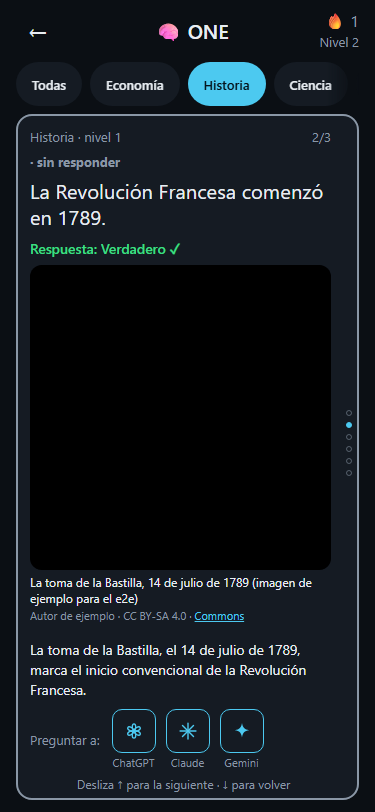
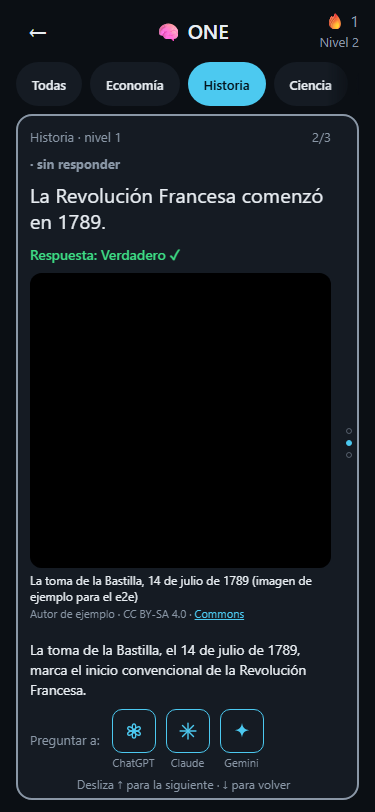
Repaso: huecos perezosos (I1), sin dataset.respondida en sin-responder (Minor 1), feed único (Minor 5) y texto (Minor 4)
Ronda final de revisión (Opus, banco real a 393×852):

- I1 (Important, rendimiento): abrir el repaso con el banco real
  construía las ~295 tarjetas de golpe (2,5 s con CPU x4, 27.000
  nodos). Mismo mecanismo que la partida: `repasoHuecos` guarda ya
  todos los items conocidos de las vueltas cargadas (barato, sin DOM),
  pero cada `nodo` se queda `null` hasta la PRIMERA VEZ que se llega a
  él (`mantenerVueltasRepaso`, en cada `alCambiar`, construye como
  mucho el actual + un colchón de uno). `asegurarRepasoConstruidoHasta`
  cubre el salto de test directo (`window.__one.irA`), que a diferencia
  del gesto real puede pedir un índice lejano de golpe. Medido con el
  banco real: 2 tarjetas construidas al abrir, 12 tras 10
  deslizamientos (topes pedidos: ≤3 y ≤13).
- Minor 1: las tarjetas "sin responder" ya no llevan
  `dataset.respondida = 'true'` (nunca se han respondido de verdad).
- Minor 4: "Sin banco" -> "Sin preguntas".
- Minor 5: `renderRepaso` calculaba el feed completo dos veces (una sin
  filtro para los chips, otra con filtro para el mazo); ahora se
  calcula una sola vez y se filtra el resultado ya obtenido.
- Nuevos hooks de test (`?test=1`): `repasoNodosConstruidos()` (nodos
  DOM realmente construidos) y `repasoNodosLength()` ajustado a
  `repasoHuecos.length` (items conocidos, sin DOM).
- e2e: nuevo test I1 (mide construidas al abrir/tras 10 deslizamientos);
  test principal adaptado a la construcción perezosa y a la vuelta
[…]

diff --git a/app.js b/app.js
@@ -102,13 +102,17 @@ let repasoPartida = [];
 // ver con mazoResumenControlador (el repaso de UNA partida ya jugada): este
 // es el feed de TODO el banco (lo respondido + lo que falta por responder).
 let mazoRepasoControlador = null;
-// Nodos del mazo de repaso ahora mismo cargados (espejo de lo que tiene
-// `mazoRepasoControlador`, para poder concatenar/recortar sin tener que
-// leerlo de vuelta del controlador) y el tamaño de cada VUELTA que compone
-// `repasoNodos`, en el mismo orden (spec v0.2a.1 §7, "sin fin": se van
-// añadiendo vueltas completas y se retiran las más antiguas ya recorridas,
-// máximo ~2 vueltas en el DOM). Ver mantenerVueltasRepaso.
-let repasoNodos = [];
+// Huecos del repaso (I1, ronda final de revisión de rendimiento: abrir el
+// repaso con el banco real construía las ~295 tarjetas de golpe, 2,5 s con
+// CPU x4). Mismo mecanismo que el mazo de la partida (`mazo`/`rellenarHueco`
+// en app.js): cada hueco conoce ya su item, su posición y el total de SU
+// vuelta (baratos, sin DOM), pero `nodo` se queda `null` hasta la PRIMERA VEZ
+// que se llega a él (`mantenerVueltasRepaso`/`asegurarRepasoConstruidoHasta`
+// construyen como mucho uno por deslizamiento). `repasoVueltaTamanos` es el
+// tamaño de cada VUELTA dentro de `repasoHuecos`, en el mismo orden (spec
+// v0.2a.1 §7, "sin fin": se van conociendo vueltas completas — barato — y se
+// retiran las más antiguas ya recorridas del todo, máximo ~2 vueltas).
+let repasoHuecos = [];
 let repasoVueltaTamanos = [];
 // Filtro de área activo del repaso del HUB: 'todas' o una de AREAS. Se
 // recuerda en sessionStorage (spec v0.2 §2: "se recuerda en sessionStorage",
@@ -338,7 +342,7 @@ function limpiarRepasoMazo() {
     mazoRepasoControlador.destruir();
     mazoRepasoControlador = null;
   }
-  repasoNodos = [];
+  repasoHuecos = [];
   repasoVueltaTamanos = [];
 }
 
@@ -441,7 +445,20 @@ if (new URLSearchParams(location.search).get('test') === '1') {
   window.__one = {
     irA(indice) {
       const activo = mazosActivos.find((m) => m.estaVisible());
-      if (activo) activo.irA(indice);
+      if (!activo) return;
+      // El repaso construye sus tarjetas de forma perezosa (I1, ronda final
+      // de revisión de rendimiento): el gesto/tecla real siempre navega de
+      // uno en uno, así que mantenerVueltasRepaso solo necesita construir el
+      // actual + un colchón. Un salto de TEST directo a un índice lejano
+      // (irA(150), irA(294)...) necesita los huecos intermedios ya
+      // construidos o mazo.js lo rebota (`nuevo >= lista.length`) — se
+      // construyen aquí, solo para este salto, sin tocar el mecanismo
+      // perezoso normal.
+      if (activo === mazoRepasoControlador) {
+        asegurarRepasoConstruidoHasta(indice + 1);
+        mazoRepasoControlador.actualizarTarjetas(listaMazoRepaso(), 0);
+      }
+      activo.irA(indice);
     },
     // Arranca una partida filtrada a ids concretos (mismo mecanismo que Misión
     // de hoy/Pendientes): para que el e2e pueda forzar preguntas concretas del
@@ -466,16 +483,24 @@ if (new URLSearchParams(location.search).get('test') === '1') {
       bancoPorId.set(pregunta.id, pregunta);
       banco.push(pregunta);
     },
-    // Tamaño ahora mismo del array que respalda el mazo de repaso del HUB
-    // (v0.2a.1 §7, repaso "sin fin"): mazo.js ya limita a máximo 3 los nodos
-    // REALMENTE adjuntos al DOM en cada momento (ventana anterior/actual/
-    // siguiente, ver render() en mazo.js) sea cual sea el tamaño de este
-    // array — así que contar `.tarjeta` en el DOM no distinguiría un recorte
-    // de vueltas correcto de uno roto. Lo que de verdad puede crecer sin
-    // límite (y lo que mantenerVueltasRepaso acota a ~2 vueltas) es este
-    // array; el e2e comprueba ESTE número, no el recuento del DOM.
+    // Nº de ITEMS ya conocidos (baratos, sin DOM) de las vueltas del repaso
+    // cargadas ahora mismo (v0.2a.1 §7, repaso "sin fin"): lo que
+    // `mantenerVueltasRepaso` acota a ~2 vueltas al recortar la más antigua
+    // ya recorrida. Mazo.js ya limita a máximo 3 los nodos REALMENTE
+    // adjuntos al DOM en cada momento (ventana anterior/actual/siguiente, ver
+    // render() en mazo.js) sea cual sea el tamaño de este array — así que
+    // contar `.tarjeta` en el DOM no distinguiría un recorte de vueltas
+    // correcto de uno roto. El e2e comprueba ESTE número, no el recuento del DOM.
     repasoNodosLength() {
-      return repasoNodos.length;
+      return repasoHuecos.length;
+    },
+    // Nº de tarjetas REALMENTE construidas (I1, ronda final de revisión de
+    // rendimiento): `repasoHuecos` conoce todos los items de la vuelta, pero
+    // `nodo` se queda `null` hasta la primera vez que se llega a ese hueco.
+    // Al abrir debe ser ≤ 3; tras 10 deslizamientos, ≤ 13 (como mucho una
+    // tarjeta nueva por deslizamiento).
+    repasoNodosConstruidos() {
+      return listaMazoRepaso().length;
     },
   };
 }
@@ -1639,15 +1664,22 @@ function construirTarjetaRespondida(pregunta, hueco, { soloLectura = false, cont
   const tarjeta = document.createElement('div');
   tarjeta.className = 'tarjeta';
   tarjeta.dataset.test = 'tarjeta';
-  tarjeta.dataset.respondida = 'true';
   // Sin responder (v0.2a.1 §7, tramo 2 del repaso infinito): hueco.correcta
   // es undefined a propósito (nunca se ha respondido de verdad, ni acierto
   // ni fallo que marcar) — borde NEUTRO, ni verde ni rojo, sin la animación
   // de pulso/sacudida que sí llevan correcto/incorrecto (spec: "ni verde ni
-  // rojo: clase tarjeta--neutra").
+  // rojo: clase tarjeta--neutra"), y SIN `dataset.respondida` (Minor 1, ronda
+  // final de revisión: nunca se ha respondido de verdad, así que marcarla
+  // como "respondida" sería falso). `ajustarEncaje` (mazo.js) distingue la
+  // cascada de una pregunta ACTIVA sin responder mirando
+  // `dataset.respondida === 'false'`, no `!== 'true'`, así que esta tarjeta
+  // (construida con la MISMA forma que una respondida: zona de respuesta +
+  // feedback, no la de una pregunta activa) sigue cayendo en la cascada
+  // correcta aunque no lleve el atributo.
   if (hueco.correcta === undefined) {
     tarjeta.classList.add('tarjeta--neutra');
   } else {
+    tarjeta.dataset.respondida = 'true';
     tarjeta.classList.add(hueco.correcta ? 'correcto' : 'incorrecto');
   }
 
@@ -2187,18 +2219,59 @@ function actualizarFiltroRepasoFinal() {
   contenedorFiltroRepaso.classList.toggle('repaso-filtro--final', alFinal);
 }
 
+/** El PREFIJO de `repasoHuecos` ya construido en nodos DOM, en orden (I1,
+ * ronda final de revisión de rendimiento): mazo.js nunca debe ver un hueco
+ * sin construir, así que se corta en el primer `nodo` a `null`.
+ * `mantenerVueltasRepaso`/`asegurarRepasoConstruidoHasta` garantizan que el
+ * hueco actual y su colchón siempre están construidos ANTES de llamar a
+ * esto, así que el corte nunca deja fuera al que hace falta mostrar. */
+function listaMazoRepaso() {
+  const construidos = [];
+  for (const hueco of repasoHuecos) {
+    if (!hueco.nodo) break;
+    construidos.push(hueco.nodo);
+  }
+  return construidos;
+}
+
+/** Añade vueltas (solo ITEMS: baratos, sin construir DOM) a `repasoHuecos`
+ * hasta conocer al menos `hastaIndice + 1`, y construye los nodos DOM del 0
+ * hasta `hastaIndice` que todavía no lo estén. Uso: el salto de TEST directo
+ * (`window.__one.irA`), que a diferencia del gesto real (siempre ±1) puede
+ * pedir un índice lejano de golpe — recorre `repasoHuecos` desde el principio
+ * porque no sabe qué tramo ya estaba construido, a diferencia del camino
+ * normal (`mantenerVueltasRepaso`), que sí lo sabe y por eso solo mira dos
+ * posiciones por deslizamiento. */
+function asegurarRepasoConstruidoHasta(hastaIndice) {
+  while (repasoHuecos.length <= hastaIndice) {
+    const lista = construirFeedRepaso(estado, banco, hoy(), filtroRepaso);
+    if (lista.length === 0) break; // defensivo: no debería darse con banco no vacío
+    repasoVueltaTamanos.push(lista.length);
+    lista.forEach((item, i) => repasoHuecos.push({ item, posicion: i, total: lista.length, nodo: null }));
+  }
+  for (let i = 0; i <= hastaIndice && i < repasoHuecos.length; i += 1) {
+    const hueco = repasoHuecos[i];
+    if (!hueco.nodo) hueco.nodo = construirTarjetaRepaso(hueco.item, hueco.posicion, hueco.total);
+  }
+}
+
 /**
- * Sin fin de verdad (spec v0.2a.1 §7): mientras al usuario le queden ≤ 3
- * tarjetas por delante en `repasoNodos`, añade otra vuelta completa (feed
- * recalculado con el mismo filtro — así refleja cualquier cambio de estado
- * mientras tanto, aunque hoy no haya forma de responder desde el repaso y en
- * la práctica salga siempre igual). Para que el DOM no crezca sin límite se
- * conservan como máximo ~2 vueltas: al superar esa cuenta se retira la vuelta
- * más antigua (nunca la actual ni una que el usuario no haya recorrido ya del
- * todo) y se reajusta el índice hacia abajo con el segundo argumento de
- * `actualizarTarjetas` (cambio mínimo en mazo.js, ver su comentario) para que
- * el usuario no note ningún salto: sigue viendo exactamente la misma tarjeta.
- * `indice` es la posición ACTUAL dentro de `repasoNodos` (no dentro de una
+ * Sin fin de verdad (spec v0.2a.1 §7) Y perezoso (I1, ronda final de
+ * revisión de rendimiento: abrir el repaso con el banco real construía las
+ * ~295 tarjetas de golpe, 2,5 s con CPU x4 — 27.000 nodos). Tres pasos en
+ * cada cambio de índice:
+ *  1. Conocer más ITEMS (baratos, sin DOM) mientras al usuario le queden ≤ 3
+ *     por delante en `repasoHuecos` — feed recalculado con el mismo filtro.
+ *  2. Construir como mucho UN nodo nuevo: el actual, por si aún no existe
+ *     (primer montaje o justo tras un recorte de vuelta), y uno de colchón
+ *     por delante — mismo mecanismo que `asegurarSiguienteDisponible` en la
+ *     partida ("rellena la PRIMERA VEZ que se llega a él").
+ *  3. Retirar la vuelta más antigua ya recorrida del todo (items Y nodos),
+ *     máximo ~2 vueltas cargadas: al superarlas se recorta por delante y se
+ *     reajusta el índice hacia abajo con el segundo argumento de
+ *     `actualizarTarjetas` (cambio mínimo en mazo.js, ver su comentario) para
+ *     que el usuario no note ningún salto: sigue viendo la misma tarjeta.
+ * `indice` es la posición ACTUAL dentro de `repasoHuecos` (no dentro de una
  * vuelta). Se llama una vez a mano justo tras montar el mazo (mismo patrón
  * que `manejarCambioIndiceMazo(0)` en `empezarPartida`) y luego en cada
  * `alCambiar`.
@@ -2207,37 +2280,41 @@ function mantenerVueltasRepaso(indice) {
   let indiceRelativo = indice;
   let huboCambio = false;
 
-  // 1) Añadir vueltas mientras el colchón por delante sea de 3 tarjetas o menos.
-  while (repasoNodos.length - 1 - indiceRelativo <= 3) {
+  while (repasoHuecos.length - 1 - indiceRelativo <= 3) {
     const lista = construirFeedRepaso(estado, banco, hoy(), filtroRepaso);
     if (lista.length === 0) break; // defensivo: no debería darse con banco no vacío
-    const nodos = lista.map((item, i) => construirTarjetaRepaso(item, i, lista.length));
-    repasoVueltaTamanos.push(nodos.length);
-    repasoNodos = repasoNodos.concat(nodos);
-    huboCambio = true;
+    repasoVueltaTamanos.push(lista.length);
+    lista.forEach((item, i) => repasoHuecos.push({ item, posicion: i, total: lista.length, nodo: null }));
   }
 
-  // 2) Retirar la vuelta más antigua ya recorrida del todo, máximo ~2 vueltas
-  // en el DOM. Solo si el usuario ya la ha pasado entera (indiceRelativo, ya
-  // descontado lo retirado en esta misma pasada, cae en o después de ella) —
-  // nunca se recorta por delante de la tarjeta actual.
+  for (const i of [indiceRelativo, indiceRelativo + 1]) {
+    const hueco = repasoHuecos[i];
+    if (hueco && !hueco.nodo) {
+      hueco.nodo = construirTarjetaRepaso(hueco.item, hueco.posicion, hueco.total);
+      huboCambio = true;
+    }
+  }
+
   let ajuste = 0;
   while (repasoVueltaTamanos.length > 2 && repasoVueltaTamanos[0] <= indiceRelativo - ajuste) {
     ajuste += repasoVueltaTamanos.shift();
   }
   if (ajuste > 0) {
-    repasoNodos = repasoNodos.slice(ajuste);
+    repasoHuecos = repasoHuecos.slice(ajuste);
     huboCambio = true;
   }
 
-  if (huboCambio) mazoRepasoControlador.actualizarTarjetas(repasoNodos, ajuste);
+  if (huboCambio) mazoRepasoControlador.actualizarTarjetas(listaMazoRepaso(), ajuste);
 }
 
 /** Recalcula el feed completo, pinta los chips y (re)monta el mazo filtrado
  * (spec v0.2a.1 §7): se usa tanto para abrir la vista por primera vez como
  * para remontar tras cambiar de chip — nunca cambia de vista por sí misma
  * (ver abrirRepaso), así que un cambio de filtro no retriggerea la animación
- * de entrada de la vista. */
+ * de entrada de la vista. Construye el feed UNA sola vez (Minor 5, ronda
+ * final de revisión) y filtra el resultado ya calculado en vez de volver a
+ * recorrer `ordenarRepaso`/`listarNoRespondidas` una segunda vez solo para
+ * aplicar el filtro. */
 function renderRepaso() {
   limpiarRepasoMazo();
   const listaCompleta = construirFeedRepaso(estado, banco, hoy(), null);
@@ -2250,16 +2327,17 @@ function renderRepaso() {
     guardarFiltroRepaso(filtroRepaso);
   }
   renderFiltroRepaso(listaCompleta);
-  const primeraLista = construirFeedRepaso(estado, banco, hoy(), filtroRepaso);
+  const primeraLista =
+    filtroRepaso === 'todas' ? listaCompleta : listaCompleta.filter((item) => item.pregunta.area === filtroRepaso);
   repasoVueltaTamanos = [primeraLista.length];
-  repasoNodos = primeraLista.map((item, i) => construirTarjetaRepaso(item, i, primeraLista.length));
+  repasoHuecos = primeraLista.map((item, i) => ({ item, posicion: i, total: primeraLista.length, nodo: null }));
   contenedorMazoRepaso.innerHTML = '';
-  mazoRepasoControlador = montarMazo(contenedorMazoRepaso, repasoNodos, {
+  mazoRepasoControlador = montarMazo(contenedorMazoRepaso, [], {
     contarPista: false,
     puntosNeutros: true,
     alCambiar: mantenerVueltasRepaso,
   });
-  mantenerVueltasRepaso(0); // dispara el pre-relleno inicial (mismo patrón que empezarPartida).
+  mantenerVueltasRepaso(0); // construye el hueco 0 + colchón (I1) y aplica vuelta/recorte si hiciera falta.
 }
 
 /** Abre la vista de repaso del HUB (botón `data-test="repaso-hub"`, spec
@@ -2394,7 +2472,7 @@ function actualizarDestacados(resumen) {
   // darse nunca en producción (ver también el guarda defensivo del mismo
   // caso en mantenerVueltasRepaso).
   if (banco.length === 0) {
-    nodoRepasoHub.textContent = 'Sin banco';
+    nodoRepasoHub.textContent = 'Sin preguntas';
     marcarNoTocable(nodoRepasoHub);
   } else {
     nodoRepasoHub.textContent = 'Repaso';

diff --git a/tests/e2e.spec.js b/tests/e2e.spec.js
@@ -2272,6 +2272,10 @@ test.describe('ONE · repaso v0.2a', () => {
     await expect(actual.locator('[data-test="nivel-pregunta"]')).toContainText('Ciencia');
     await expect(actual.locator('.repaso-marca')).toHaveText('✗ fallada · hoy');
 
+    // Minor 7 (ronda final de revisión): captura regenerada con el estado
+    // actual del repaso (respondidas primero).
+    await page.screenshot({ path: `${CAPTURAS}/v0.2a-repaso-375.png` });
+
     await page.keyboard.press('ArrowUp');
     await esperarAsentamientoMazo(page);
     await assertSinScroll(page);
@@ -2581,5 +2585,91 @@ test.describe('ONE · repaso v0.2a', () => {
     await expect(actual.locator('[data-test="repaso-marca-nueva"]')).toHaveText('· sin responder');
     await expect(actual.locator('[data-test="nivel-pregunta"]')).toContainText('nivel 1');
     await expect(page.locator('[data-test="repaso-cierre"]')).toHaveCount(0);
+  });
+
+  // Ronda final de revisión (Opus, con el banco real a 393×852): C1
+  // (Critical, UX) — con 295 preguntas la columna de puntos era una raya
+  // inútil (el punto "actual" solo caía dentro de la caja cerca de la mitad
+  // del array) y se repintaba entera en cada deslizamiento (84 ms con CPU
+  // x4). Arreglo en mazo.js/pintarPuntos: por encima de 12 huecos, ventana de
+  // 9 puntos centrada en el índice actual.
+  test('C1 (Critical, ronda final de revisión de rendimiento): con el banco real, la columna de puntos pinta como mucho 9 y el punto actual siempre cae dentro de la caja', async ({
+    page,
+  }) => {
+    await page.goto('/?test=1');
+    await expect(page.locator('[data-vista="inicio"]')).toBeVisible();
+    await page.locator('[data-test="cerebro"]').click();
+    await expect(page.locator('[data-vista="progreso"]')).toBeVisible();
+
+    await page.locator('[data-test="repaso-hub"]').click();
+    await expect(page.locator('[data-vista="repaso"]')).toBeVisible();
+    await esperarAsentamientoMazo(page);
+
+    /** No basta con que `.mazo-punto--actual` exista en el DOM: antes de C1
+     * podía existir pero quedar fuera del área visible de `.mazo-puntos`
+     * (recortado por overflow) salvo cerca de la mitad del array. */
+    async function comprobarVentanaDePuntos() {
+      const conteo = await page.locator('.mazo-punto').count();
+      expect(conteo).toBeLessThanOrEqual(9);
+      const cajaColumna = await page.locator('.mazo-puntos').boundingBox();
+      const cajaActual = await page.locator('.mazo-punto--actual').boundingBox();
+      expect(cajaColumna).not.toBeNull();
+      expect(cajaActual).not.toBeNull();
+      expect(cajaActual.y, 'el punto actual queda por ENCIMA de .mazo-puntos').toBeGreaterThanOrEqual(
+        cajaColumna.y - 1
+      );
+      expect(
+        cajaActual.y + cajaActual.height,
+        'el punto actual queda por DEBAJO de .mazo-puntos'
+      ).toBeLessThanOrEqual(cajaColumna.y + cajaColumna.height + 1);
+    }
+
+    await comprobarVentanaDePuntos(); // índice 0, recién abierto.
+
+    // Banco real sin filtrar (295 preguntas, todas sin responder de fábrica):
+    // salto de test (window.__one.irA), no 150/294 ArrowUp reales.
+    await page.evaluate(() => window.__one.irA(150));
+    await esperarAsentamientoMazo(page);
+    await comprobarVentanaDePuntos();
+
+    await page.evaluate(() => window.__one.irA(294)); // última del banco real sin filtrar.
+    await esperarAsentamientoMazo(page);
+    await comprobarVentanaDePuntos();
+  });
+
+  // Ronda final de revisión: I1 (Important, rendimiento) — abrir el repaso
+  // con el banco real construía las ~295 tarjetas de golpe (2,5 s con CPU x4,
+  // 27.000 nodos). Arreglo: mismo mecanismo que la partida (huecos con
+  // `nodo: null` hasta la PRIMERA VEZ que se llega a ellos, ver
+  // mantenerVueltasRepaso/asegurarRepasoConstruidoHasta en app.js).
+  test('I1 (Important, ronda final de revisión de rendimiento): abrir el repaso con el banco real construye como mucho 3 tarjetas, y cada deslizamiento como mucho una más', async ({
+    page,
+  }) => {
+    await page.goto('/?test=1');
+    await expect(page.locator('[data-vista="inicio"]')).toBeVisible();
+    await page.locator('[data-test="cerebro"]').click();
+    await expect(page.locator('[data-vista="progreso"]')).toBeVisible();
+
+    await page.locator('[data-test="repaso-hub"]').click();
+    await expect(page.locator('[data-vista="repaso"]')).toBeVisible();
+    await esperarAsentamientoMazo(page);
+
+    const construidasAlAbrir = await page.evaluate(() => window.__one.repasoNodosConstruidos());
+    expect(construidasAlAbrir).toBeLessThanOrEqual(3);
+
+    for (let i = 0; i < 10; i += 1) {
+      await page.keyboard.press('ArrowUp');
+      await esperarAsentamientoMazo(page);
+      await assertSinScroll(page);
+      await assertTarjetaSinScroll(page);
+    }
+
+    const construidasTrasDiez = await page.evaluate(() => window.__one.repasoNodosConstruidos());
+    expect(construidasTrasDiez).toBeLessThanOrEqual(13);
+
+    // La vuelta infinita y el contador n/N siguen funcionando con huecos
+    // perezosos: n/N se fija por vuelta (no por cuántos nodos hay
+    // construidos), así que se sigue viendo con normalidad.
+    await expect(tarjetaActual(page).locator('[data-test="mazo-contador"]')).toBeVisible();
   });
 });
